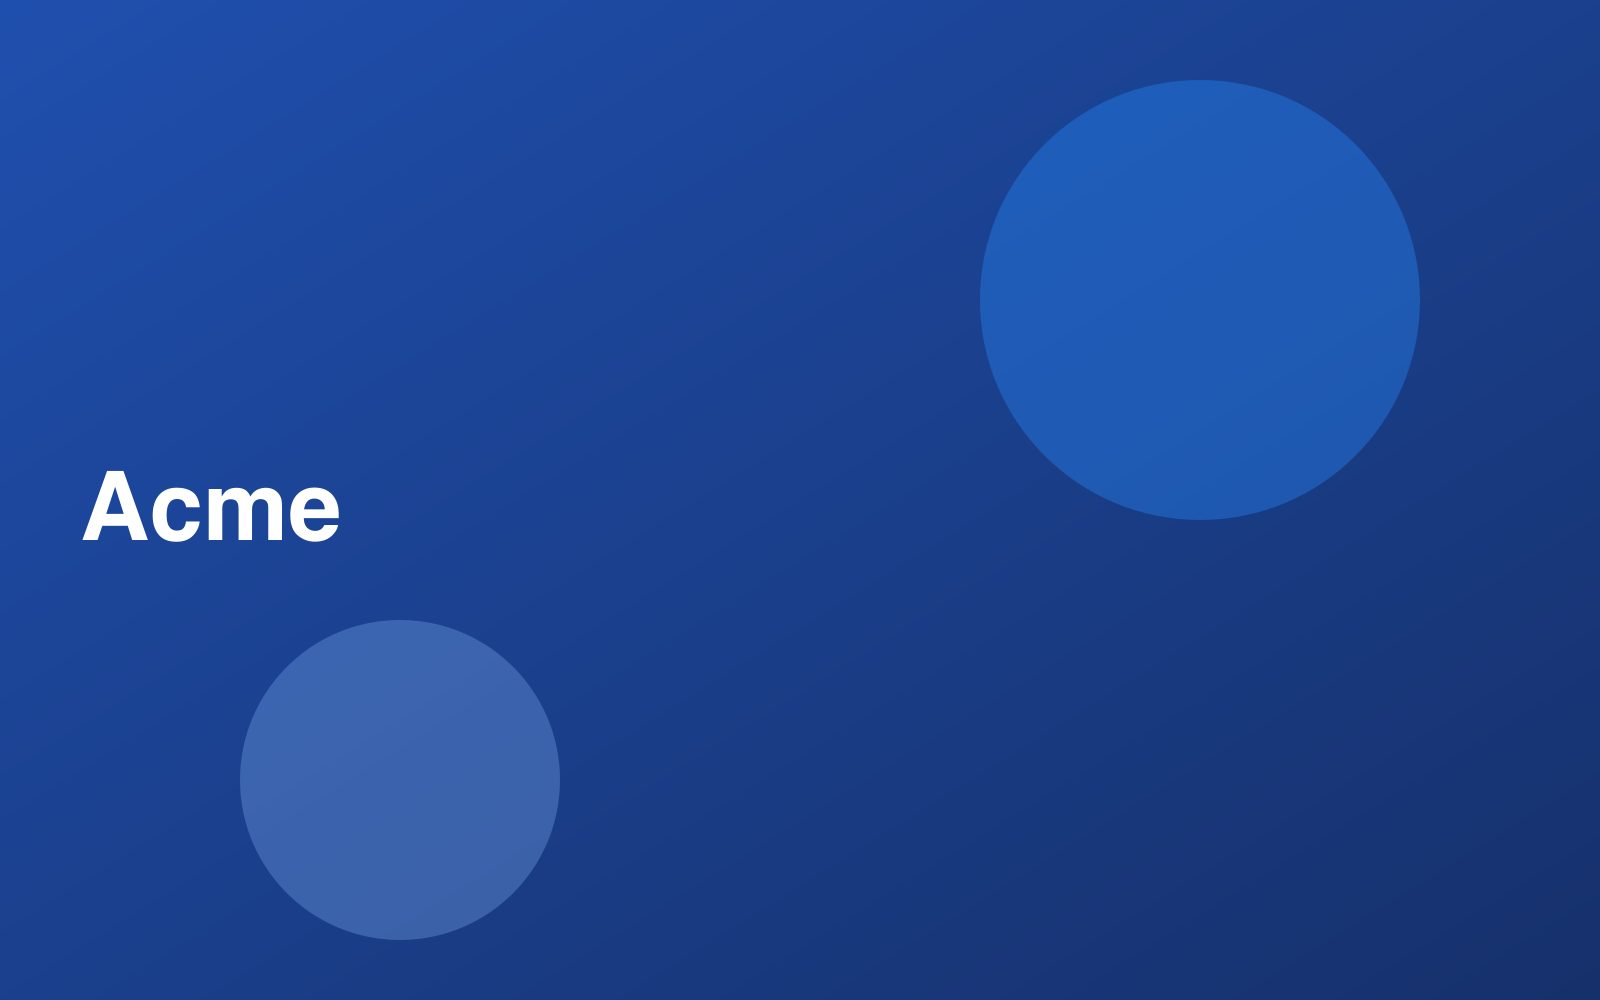
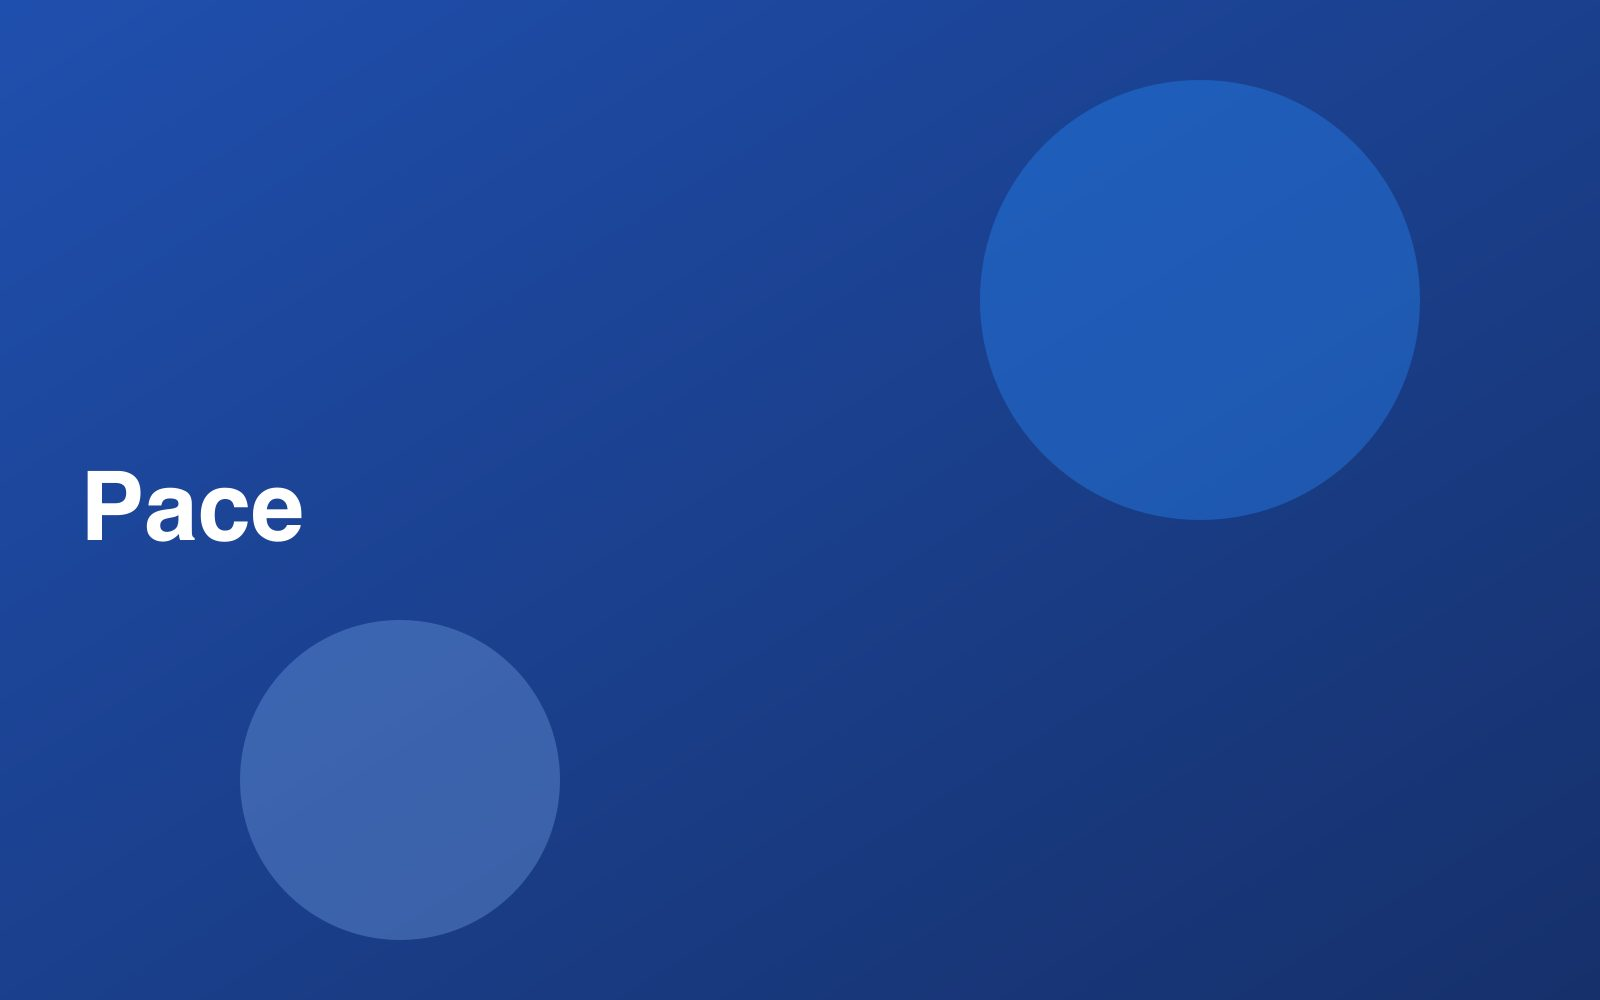
Declutter nav into Demos dropdown; regenerate hero image as Pace

Changed region(s): [[0.0312, 0.465, 0.2188, 0.558]]

diff --git a/src/components/ui/dropdown-menu.tsx b/src/components/ui/dropdown-menu.tsx
@@ -1,0 +1,269 @@
+"use client"
+
+import * as React from "react"
+import { DropdownMenu as DropdownMenuPrimitive } from "radix-ui"
+
+import { cn } from "@/lib/utils"
+import { CheckIcon, ChevronRightIcon } from "lucide-react"
+
+function DropdownMenu({
+  ...props
+}: React.ComponentProps<typeof DropdownMenuPrimitive.Root>) {
+  return <DropdownMenuPrimitive.Root data-slot="dropdown-menu" {...props} />
+}
+
+function DropdownMenuPortal({
+  ...props
+}: React.ComponentProps<typeof DropdownMenuPrimitive.Portal>) {
+  return (
+    <DropdownMenuPrimitive.Portal data-slot="dropdown-menu-portal" {...props} />
+  )
+}
+
+function DropdownMenuTrigger({
+  ...props
+}: React.ComponentProps<typeof DropdownMenuPrimitive.Trigger>) {
+  return (
+    <DropdownMenuPrimitive.Trigger
+      data-slot="dropdown-menu-trigger"
+      {...props}
+    />
+  )
+}
+
+function DropdownMenuContent({
+  className,
+  align = "start",
+  sideOffset = 4,
+  ...props
+}: React.ComponentProps<typeof DropdownMenuPrimitive.Content>) {
+  return (
+    <DropdownMenuPrimitive.Portal>
+      <DropdownMenuPrimitive.Content
+        data-slot="dropdown-menu-content"
+        sideOffset={sideOffset}
+        align={align}
+        className={cn("z-50 max-h-(--radix-dropdown-menu-content-available-height) w-(--radix-dropdown-menu-trigger-width) min-w-32 origin-(--radix-dropdown-menu-content-transform-origin) overflow-x-hidden overflow-y-auto rounded-lg bg-popover p-1 text-popover-foreground shadow-md ring-1 ring-foreground/10 duration-100 data-[side=bottom]:slide-in-from-top-2 data-[side=left]:slide-in-from-right-2 data-[side=right]:slide-in-from-left-2 data-[side=top]:slide-in-from-bottom-2 data-[state=closed]:overflow-hidden data-open:animate-in data-open:fade-in-0 data-open:zoom-in-95 data-closed:animate-out data-closed:fade-out-0 data-closed:zoom-out-95", className )}
+        {...props}
+      />
+    </DropdownMenuPrimitive.Portal>
+  )
+}
+
+function DropdownMenuGroup({
+  ...props
+}: React.ComponentProps<typeof DropdownMenuPrimitive.Group>) {
+  return (
+    <DropdownMenuPrimitive.Group data-slot="dropdown-menu-group" {...props} />
+  )
+}
+
+function DropdownMenuItem({
+  className,
+  inset,
+  variant = "default",
+  ...props
+}: React.ComponentProps<typeof DropdownMenuPrimitive.Item> & {
+  inset?: boolean
+  variant?: "default" | "destructive"
+}) {
+  return (
+    <DropdownMenuPrimitive.Item
+      data-slot="dropdown-menu-item"
+      data-inset={inset}
+      data-variant={variant}
+      className={cn(
+        "group/dropdown-menu-item relative flex cursor-default items-center gap-1.5 rounded-md px-1.5 py-1 text-sm outline-hidden select-none focus:bg-accent focus:text-accent-foreground not-data-[variant=destructive]:focus:**:text-accent-foreground data-inset:pl-7 data-[variant=destructive]:text-destructive data-[variant=destructive]:focus:bg-destructive/10 data-[variant=destructive]:focus:text-destructive dark:data-[variant=destructive]:focus:bg-destructive/20 data-disabled:pointer-events-none data-disabled:opacity-50 [&_svg]:pointer-events-none [&_svg]:shrink-0 [&_svg:not([class*='size-'])]:size-4 data-[variant=destructive]:*:[svg]:text-destructive",
+        className
+      )}
+      {...props}
+    />
+  )
+}
+
+function DropdownMenuCheckboxItem({
+  className,
+  children,
+  checked,
+  inset,
+  ...props
+}: React.ComponentProps<typeof DropdownMenuPrimitive.CheckboxItem> & {
+  inset?: boolean
+}) {
+  return (
+    <DropdownMenuPrimitive.CheckboxItem
+      data-slot="dropdown-menu-checkbox-item"
+      data-inset={inset}
+      className={cn(
+        "relative flex cursor-default items-center gap-1.5 rounded-md py-1 pr-8 pl-1.5 text-sm outline-hidden select-none focus:bg-accent focus:text-accent-foreground focus:**:text-accent-foreground data-inset:pl-7 data-disabled:pointer-events-none data-disabled:opacity-50 [&_svg]:pointer-events-none [&_svg]:shrink-0 [&_svg:not([class*='size-'])]:size-4",
+        className
+      )}
+      checked={checked}
+      {...props}
+    >
+      <span
+        className="pointer-events-none absolute right-2 flex items-center justify-center"
+        data-slot="dropdown-menu-checkbox-item-indicator"
+      >
+        <DropdownMenuPrimitive.ItemIndicator>
+          <CheckIcon
+          />
+        </DropdownMenuPrimitive.ItemIndicator>
+      </span>
+      {children}
+    </DropdownMenuPrimitive.CheckboxItem>
+  )
+}
+
+function DropdownMenuRadioGroup({
+  ...props
+}: React.ComponentProps<typeof DropdownMenuPrimitive.RadioGroup>) {
+  return (
+    <DropdownMenuPrimitive.RadioGroup
+      data-slot="dropdown-menu-radio-group"
+      {...props}
+    />
+  )
+}
+
+function DropdownMenuRadioItem({
+  className,
+  children,
+  inset,
+  ...props
+}: React.ComponentProps<typeof DropdownMenuPrimitive.RadioItem> & {
+  inset?: boolean
+}) {
+  return (
+    <DropdownMenuPrimitive.RadioItem
+      data-slot="dropdown-menu-radio-item"
+      data-inset={inset}
+      className={cn(
+        "relative flex cursor-default items-center gap-1.5 rounded-md py-1 pr-8 pl-1.5 text-sm outline-hidden select-none focus:bg-accent focus:text-accent-foreground focus:**:text-accent-foreground data-inset:pl-7 data-disabled:pointer-events-none data-disabled:opacity-50 [&_svg]:pointer-events-none [&_svg]:shrink-0 [&_svg:not([class*='size-'])]:size-4",
+        className
+      )}
+      {...props}
+    >
+      <span
+        className="pointer-events-none absolute right-2 flex items-center justify-center"
+        data-slot="dropdown-menu-radio-item-indicator"
+      >
+        <DropdownMenuPrimitive.ItemIndicator>
+          <CheckIcon
+          />
+        </DropdownMenuPrimitive.ItemIndicator>
+      </span>
+      {children}
+    </DropdownMenuPrimitive.RadioItem>
+  )
+}
+
+function DropdownMenuLabel({
+  className,
+  inset,
+  ...props
+}: React.ComponentProps<typeof DropdownMenuPrimitive.Label> & {
+  inset?: boolean
+}) {
+  return (
+    <DropdownMenuPrimitive.Label
+      data-slot="dropdown-menu-label"
+      data-inset={inset}
+      className={cn(
+        "px-1.5 py-1 text-xs font-medium text-muted-foreground data-inset:pl-7",
+        className
+      )}
+      {...props}
+    />
+  )
+}
+
+function DropdownMenuSeparator({
+  className,
+  ...props
+}: React.ComponentProps<typeof DropdownMenuPrimitive.Separator>) {
+  return (
+    <DropdownMenuPrimitive.Separator
+      data-slot="dropdown-menu-separator"
+      className={cn("-mx-1 my-1 h-px bg-border", className)}
+      {...props}
+    />
+  )
+}
+
+function DropdownMenuShortcut({
+  className,
+  ...props
+}: React.ComponentProps<"span">) {
+  return (
+    <span
+      data-slot="dropdown-menu-shortcut"
+      className={cn(
+        "ml-auto text-xs tracking-widest text-muted-foreground group-focus/dropdown-menu-item:text-accent-foreground",
+        className
+      )}
+      {...props}
+    />
+  )
+}
+
+function DropdownMenuSub({
+  ...props
+}: React.ComponentProps<typeof DropdownMenuPrimitive.Sub>) {
+  return <DropdownMenuPrimitive.Sub data-slot="dropdown-menu-sub" {...props} />
+}
+
+function DropdownMenuSubTrigger({
+  className,
+  inset,
+  children,
+  ...props
+}: React.ComponentProps<typeof DropdownMenuPrimitive.SubTrigger> & {
+  inset?: boolean
+}) {
+  return (
+    <DropdownMenuPrimitive.SubTrigger
+      data-slot="dropdown-menu-sub-trigger"
+      data-inset={inset}
+      className={cn(
+        "flex cursor-default items-center gap-1.5 rounded-md px-1.5 py-1 text-sm outline-hidden select-none focus:bg-accent focus:text-accent-foreground not-data-[variant=destructive]:focus:**:text-accent-foreground data-inset:pl-7 data-open:bg-accent data-open:text-accent-foreground [&_svg]:pointer-events-none [&_svg]:shrink-0 [&_svg:not([class*='size-'])]:size-4",
+        className
+      )}
+      {...props}
+    >
+      {children}
+      <ChevronRightIcon className="ml-auto" />
+    </DropdownMenuPrimitive.SubTrigger>
+  )
+}
+
+function DropdownMenuSubContent({
+  className,
+  ...props
+}: React.ComponentProps<typeof DropdownMenuPrimitive.SubContent>) {
+  return (
+    <DropdownMenuPrimitive.SubContent
+      data-slot="dropdown-menu-sub-content"
+      className={cn("z-50 min-w-[96px] origin-(--radix-dropdown-menu-content-transform-origin) overflow-hidden rounded-lg bg-popover p-1 text-popover-foreground shadow-lg ring-1 ring-foreground/10 duration-100 data-[side=bottom]:slide-in-from-top-2 data-[side=left]:slide-in-from-right-2 data-[side=right]:slide-in-from-left-2 data-[side=top]:slide-in-from-bottom-2 data-open:animate-in data-open:fade-in-0 data-open:zoom-in-95 data-closed:animate-out data-closed:fade-out-0 data-closed:zoom-out-95", className )}
+      {...props}
+    />
+  )
+}
+
+export {
+  DropdownMenu,
+  DropdownMenuPortal,
+  DropdownMenuTrigger,
+  DropdownMenuContent,
+  DropdownMenuGroup,
+  DropdownMenuLabel,
+  DropdownMenuItem,
+  DropdownMenuCheckboxItem,
+  DropdownMenuRadioGroup,
+  DropdownMenuRadioItem,
+  DropdownMenuSeparator,
+  DropdownMenuShortcut,
+  DropdownMenuSub,
+  DropdownMenuSubTrigger,
+  DropdownMenuSubContent,
+}

diff --git a/src/components/site-header.tsx b/src/components/site-header.tsx
@@ -1,26 +1,42 @@
 "use client";
 // CLIENT COMPONENT — a small "island" of interactivity inside an otherwise
 // server-rendered layout. It needs useState for the mobile menu toggle, so it
-// must run in the browser. This is the only interactive piece of the header.
+// must run in the browser.
+//
+// The site has many demo pages, so the top nav keeps a curated set of PRIMARY
+// links and tucks the feature-showcase pages into a "Demos" dropdown — keeps the
+// bar uncluttered while staying fully accessible (Radix dropdown).
 
 import Link from "next/link";
 import { useState } from "react";
+import { ChevronDownIcon } from "lucide-react";
 import ThemeToggle from "@/components/theme-toggle";
+import {
+  DropdownMenu,
+  DropdownMenuContent,
+  DropdownMenuItem,
+  DropdownMenuLabel,
+  DropdownMenuTrigger,
+} from "@/components/ui/dropdown-menu";
 
-const nav = [
+const primaryNav = [
   { href: "/", label: "Home" },
   { href: "/pricing", label: "Pricing" },
+  { href: "/features", label: "Features" },
+  { href: "/blog", label: "Blog" },
+  { href: "/about", label: "About" },
+];
+
+// Feature-showcase / demo pages, grouped under "Demos".
+const demoNav = [
   { href: "/deals", label: "Deals" },
   { href: "/news", label: "News" },
-  { href: "/features", label: "Features" },
   { href: "/showcase", label: "Showcase" },
   { href: "/campaign", label: "Campaign" },
   { href: "/design-system", label: "Design System" },
   { href: "/landing", label: "Landing" },
   { href: "/integrations", label: "Integrations" },
   { href: "/subscribe", label: "Subscribe" },
-  { href: "/about", label: "About" },
-  { href: "/blog", label: "Blog" },
 ];
 
 export default function SiteHeader() {
@@ -33,10 +49,9 @@ export default function SiteHeader() {
           Pace<span className="text-brand-600 dark:text-brand-300">.</span>
         </Link>
 
-        {/* Desktop nav — only at lg+, where the row fits. Below that we use the
-            hamburger menu (11 links would overflow a tablet width otherwise). */}
-        <nav aria-label="Primary" className="hidden items-center gap-x-4 lg:flex xl:gap-x-6">
-          {nav.map((item) => (
+        {/* Desktop nav (lg+): primary links + a Demos dropdown. */}
+        <nav aria-label="Primary" className="hidden items-center gap-x-5 lg:flex">
+          {primaryNav.map((item) => (
             <Link
               key={item.href}
               href={item.href}
@@ -46,6 +61,23 @@ export default function SiteHeader() {
               {item.label}
             </Link>
           ))}
+
+          <DropdownMenu>
+            <DropdownMenuTrigger className="inline-flex items-center gap-1 whitespace-nowrap text-sm text-black/70 outline-none hover:text-black data-[state=open]:text-black dark:text-white/70 dark:hover:text-white dark:data-[state=open]:text-white">
+              Demos
+              <ChevronDownIcon className="size-3.5 transition-transform duration-200 group-data-[state=open]:rotate-180" />
+            </DropdownMenuTrigger>
+            <DropdownMenuContent align="end" className="w-44">
+              <DropdownMenuLabel>Feature demos</DropdownMenuLabel>
+              {demoNav.map((item) => (
+                <DropdownMenuItem key={item.href} asChild>
+                  <Link href={item.href} prefetch>
+                    {item.label}
+                  </Link>
+                </DropdownMenuItem>
+              ))}
+            </DropdownMenuContent>
+          </DropdownMenu>
         </nav>
 
         <div className="flex items-center gap-2">
@@ -63,10 +95,28 @@ export default function SiteHeader() {
         </div>
       </div>
 
-      {/* Mobile/tablet nav — collapses the same links into a vertical list */}
+      {/* Mobile/tablet nav — flat list, grouped with a Demos heading. */}
       {open && (
-        <nav aria-label="Primary" id="mobile-nav" className="flex flex-col gap-1 px-6 pb-4 lg:hidden">
-          {nav.map((item) => (
+        <nav
+          aria-label="Primary"
+          id="mobile-nav"
+          className="flex flex-col gap-1 px-6 pb-4 lg:hidden"
+        >
+          {primaryNav.map((item) => (
+            <Link
+              key={item.href}
+              href={item.href}
+              prefetch
+              onClick={() => setOpen(false)}
+              className="rounded px-2 py-2 text-sm hover:bg-black/5 dark:hover:bg-white/10"
+            >
+              {item.label}
+            </Link>
+          ))}
+          <p className="mt-2 px-2 text-xs font-medium uppercase tracking-wide text-ink-muted">
+            Demos
+          </p>
+          {demoNav.map((item) => (
             <Link
               key={item.href}
               href={item.href}